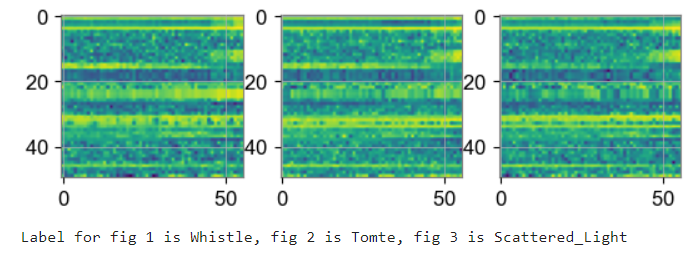
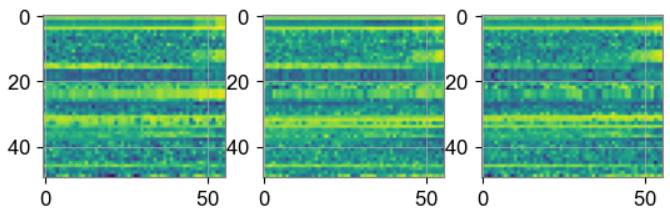
added DER and some results

diff --git a/Grad Assignment/Chapter2/chapter2.tex b/Grad Assignment/Chapter2/chapter2.tex
@@ -135,6 +135,7 @@ Task-IL scenarios performed equally well as opposed to the baseline method, doma
 \section{Background}
 \label{sec:Background}
 \subsection{CL Concepts and formulation}
+\label{subsec:cl_concepts}
 We follow the framework proposed by \citep{lesort2020continual}. 
 In the context of continual learning, the data can be considered as coming from a (potentially infinite) sequence $\mathbf{D}$ of distributions that are not known in advance. This sequence, denoted as $\mathbf{D} = \{ D_{1}, ..., D_{N} \}$, is defined over the random variables $X$ and $Y$, where $X$ represents the input and $Y$ represents the output. At each time step $i$, the algorithm receives a training set $Tr_{i}$ consisting of one or more observations drawn from the distribution $D_{i}$. A learning task is marked by a distinct task label $t\in \{ 1,\dots,T\}$ and its intended goal or objective function $h^{*}$.
 
@@ -154,13 +155,7 @@ where
 \[
     \mathbf{L}_{t} = \EX \left( L \left( y, f_{\theta} (x) \right) \right)
 \]
-
-A challenging fact, as the data from previous tasks $\mathbf{D}_{t}$ for $t\in \{ 1, \dots, t_{c} - 1 \}$ is not available. 
-In order to keep the previously learned knowledge, the following objective function is minimized:
-
-\[
-\mathbf{L}_{t_{c}} + \alpha \sum_{t=1}^{t_{c}-1}
-\]
+and $\EX$ is the expectation over data sampled from a distribution $\mathbf{D}_t$. \\
 
 \subsection{Catastrophic forgetting}
 \label{ref:subsub_catastrophic}
@@ -169,7 +164,13 @@ The dilemma (or trade-off) of Stability-Plasticity pertains to the capacity to i
 
 
 \subsection{CL training methods}
-In the subsequent section, we will outline a few of the frequently employed training techniques.
+In the subsequent section, we will outline a few of the frequently employed training techniques. Most of the training strategies follow the guidelines of General Continual Learning (GCL) as proposed by \citep{farquhar2018towards}. 
+\begin{itemize}
+    \item Do not rely on task boundaries.
+    \item No oracle with task identifiers during testing.
+    \item A bounded constant memory throughout training.
+\end{itemize}
+
 \subsubsection{Elastic Weight Consolidation}
 \label{sec:ewc}
 The study by \citep{kirkpatrick2017overcoming} and \citep{de2021continual} explains \acrshort{ewc} is a regularization method designed to address the issue of catastrophic forgetting in neural networks. It achieves this by constraining the learning process. The main concept behind \acrshort{ewc} involves incorporating a quadratic penalty term into the standard loss function. This penalty term takes into account the difference between the current weight values and the optimal weights that were obtained during the previous task learning phase. By doing so, \acrshort{ewc} minimises interference between tasks and ensures a balance between learning new tasks and retaining knowledge from previous tasks.
@@ -215,11 +216,11 @@ The \acrshort{fromp} training strategy is a novel approach in \acrshort{cl} addr
 \label{sec:gem}
 The \acrlong{cl} (\acrshort{cl}) strategy, proposed by \citep{lopez2017gradient}, is a model that overcomes the limitations imposed by Empirical Risk Minimization \citep{vapnik1991principles} on other supervised learning techniques. To bridge this gap, the \acrlong{gem} (\acrshort{gem}) model incorporates an episodic memory $M_t$ that selectively stores a subset of observed examples from a specific task $t$. The memory capacity is limited to a total of $M$ locations, with each task having $m=\frac{M}{T}$ memories. The examples stored in $M$ are utilized to determine predictor functions $f_{\theta}$ by minimising the corresponding loss function
 \[
-L(f_{\theta}, M_{k}) = \frac{1}{|M_{k}|} \sum_{(x_i, k, y_i) \in M_{k}} L(f_{\theta}(x_i , k), y_i)
+\mathbf{L}(f_{\theta}, M_{k}) = \frac{1}{|M_{k}|} \sum_{(x_i, k, y_i) \in M_{k}} \mathbf{L}(f_{\theta}(x_i , k), y_i)
 \]
 Overfitting to the stored examples in $M_{k}$ is a common issue when minimizing the loss at the current example along with the above loss function. To address this problem, they solve the following optimization problem:
 \[ 
-\underset{\theta}{\mathrm{argmin }} \; L(f_{\theta}(x,t),y) \text{ subject to } L(f_{\theta}, M_{k}) \leq L(f_{\theta}^{t-1}, m_k), \forall k<t 
+\underset{\theta}{\mathrm{argmin }} \; \mathbf{L}(f_{\theta}(x,t),y) \text{ subject to } \mathbf{L}(f_{\theta}, M_{k}) \leq \mathbf{L}(f_{\theta}^{t-1}, m_k), \forall k<t 
 \]
 Here, $f^{t-1}_{\theta}$ represents the previous predictor state at the end of learning task $t-1$. The detailed solution can be found in the original paper by \citep{lopez2017gradient}.
 
@@ -228,7 +229,7 @@ Here, $f^{t-1}_{\theta}$ represents the previous predictor state at the end of l
 \label{sec:a-gem}
 \citep{chaudhry2018efficient} proposes a more efficient version of \acrshort{gem} where it tries to ensure that at every training step the average episodic memory loss over the previous tasks does not increase. Formally the objective of \acrshort{agem} is
 \[ 
-\underset{\theta}{\mathrm{argmin }} \; L(f_{\theta} D_{t}) \text{ such that } L(f_{\theta}, M) \leq L(f_{\theta}^{t-1}, M), \text{ where } M = \underset{k<t}{\bigcup} M_{k} 
+\underset{\theta}{\mathrm{argmin }} \; \mathbf{L}(f_{\theta} D_{t}) \text{ such that } \mathbf{L}(f_{\theta}, M) \leq \mathbf{L}(f_{\theta}^{t-1}, M), \text{ where } M = \underset{k<t}{\bigcup} M_{k} 
 \]
 The detailed solution and update rule can be found in the original paper by \citep{chaudhry2018efficient}.
 
@@ -236,35 +237,66 @@ The detailed solution and update rule can be found in the original paper by \cit
 As described in \citep{rebuffi2017icarl} iCaRL (Incremental Classifier and Representation Learning) allows learning in a class incremental way as depicted in figure \ref{fig:icarl}. It learns strong classifiers and a data representation simultaneously. In iCaRL, the model learns to recognize new classes while retaining its ability to recognize old ones. This is achieved by storing examples of each class, which are selected based on their closeness to the mean feature of that class. 
 The model is then trained on both the new data and these examples. This approach ensures that the model does not forget the old classes when learning new ones. 
 
-\begin{figure}[H]
-    \centering
-    \textwidth\textwidth]\includegraphics[width=0.5\textwidth]{Images//class_incremental_learning.png}
+\begin{wrapfigure}{l}{0.40\textwidth}\includegraphics[width=0.45\textwidth]{Images//class_incremental_learning.png}
     \caption{Class-incremental learning. \citep{rebuffi2017icarl}}
     \label{fig:icarl}
-\end{figure}
+\end{wrapfigure}
 
-iCaRL utilizes a \acrshort{cnn} as its underlying mechanism. The \acrshort{cnn} functions as a feature extractor that can be trained, denoted as $\phi: X \rightarrow \mathbf{R}^{d}$, followed by a single classification layer containing sigmoid output nodes equal to the number of classes encountered up to that point. All feature vectors undergo $L^{2}$ normalization. The classification approach employed by iCaRL is based on a nearest-mean-of-exemplars strategy. In order to predict a label, $y^{*}$, for a new input, $x$, the system calculates a prototype vector for each class seen so far, represented as $\mu_{1}, ..., \mu_{t}$, where $\mu_{y}$ represents the average feature vector of all examples belonging to class $y$. It also computes the feature vector of the image that should be classified and assigns the class label with the most similar prototype: 
+
+iCaRL utilizes a \acrshort{cnn} as its underlying mechanism. The \acrshort{cnn} functions as a feature extractor that can be trained, denoted as $\phi: X \rightarrow \mathbf{R}^{d}$, followed by a single classification layer containing sigmoid output nodes equal to the number of classes encountered up to that point. All feature vectors undergo $L^{2}$ normalization. The classification approach employed by iCaRL is based on a nearest-mean-of-exemplars strategy.\\
+In order to predict a label, $y^{*}$, for a new input, $x$, the system calculates a prototype vector for each class seen so far, represented as $\mu_{1}, ..., \mu_{t}$, where $\mu_{y}$ represents the average feature vector of all examples belonging to class $y$. It also computes the feature vector of the image that should be classified and assigns the class label with the most similar prototype: 
 \[
 y^{*} = \underset{y=1,...,t}{\mathrm{argmin }} \| \phi(x) - \mu_{y} \|
 \]
 
 \subsubsection{SCR}
 \label{sec:SCR}
-\begin{wrapfigure}{r}{0.48\textwidth}
-    \includegraphics[width=0.46\textwidth]{Images/scr_architecture.png}
+\begin{wrapfigure}{r}{0.40\textwidth}
+    \includegraphics[width=0.40\textwidth]{Images/scr_architecture.png}
     \caption{A schematic view of SCR. \citep{mai2021supervised}}
     \label{fig:scr_architecture}
 \end{wrapfigure}
 
 \acrfull{scr} is a technique introduced by \citep{mai2021supervised} to address some challenges common in \acrshort{cl}. 
-Because the softmax classifier is not the best choice for CL approaches, it aims to leverage the \acrfull{ncm} classifier instead to effectively mitigate catastrophic forgetting (or also called task-recency bias). 
-The \acrshort{scr} process (see Figure \ref{fig:scr_architecture}) involves the creation of an input batch during training by combining a minibatch $B_{n}$ from the datastream with another minibatch $B_{M}$ from the memory buffer $M_{i}$. These input batches, along with their augmented views, are encoded by a shared encoder ($Enc(\cdot)$) and projection head ($Proj(\cdot)$). Followed by an evaluation using supervised contrastive loss. In the testing phase, $Proj(\cdot)$ is removed.
-
-
-Supervised Contrastive Loss is an alternative loss function to cross entropy that can leverage label information more effectively. \citep{khosla2020supervised}.
+Because the softmax classifier is not the best choice for CL approaches, it aims to leverage the \acrfull{ncm} classifier instead to effectively mitigate catastrophic forgetting (or also called task-recency bias).\\
+The \acrshort{scr} process (see Figure \ref{fig:scr_architecture}) involves the creation of an input batch during training by combining a minibatch $B_{n}$ from the datastream with another minibatch $B_{M}$ from the memory buffer $M_{i}$.\\ 
+These input batches, along with their augmented views, are encoded by a shared encoder  and projection head. Followed by an evaluation using supervised contrastive loss. In the testing phase, the projection head is removed. Supervised Contrastive Loss is an alternative loss function to cross entropy that can leverage label information more effectively. \citep{khosla2020supervised}.
 
 \subsubsection{DER and DER++}
-\acrfull{der} 
+\acrfull{der} is proposed by \citep{buzzega2020dark} as an improvement on Experience Replay (ER) while maintaining a simple formulation. It relies on dark knowledge for distilling past experiences, sampled over the training trajectory. \\
+Formally, given a \acrshort{cl} classification split in $T$ tasks
+
+It is problematic that the data from earlier tasks $\mathbf{D}_{t}$ for $t \in \{ 1, \dots, t_{c} - 1 \}$ is unavailable. To preserve the knowledge acquired previously, the subsequent objective function, which mirrors the teacher-student method, is minimized:
+
+\[
+\mathbf{L}_{t_{c}} + \alpha \sum_{t=1}^{t_{c}-1} \EX \left[ D_{KL} \left( f_{\theta_{t}^{*}}(x) \parallel f_{\theta}(x) \right) \right]
+\]
+where $\theta_{t}^{*}$ is the optimal set of parameters at the end of task $t$, $\alpha$ is a hyperparameter balancing the trade-off between the terms. 
+$D_{KL}$ stands for the Kullback-Leibler divergence, a measure of how one probability distribution diverges from a second, expected probability distribution. It is commonly used to quantify how much knowledge from previous tasks is retained or lost when learning new tasks \citep{goodfellow2016deep}.\\
+The above objective function requires having access to $\mathbf{D}_{t}$ for earlier tasks. To address this issue, a replay buffer $M_{t}$ is utilized to store previous experiences related to task $t$. Instead of preserving the actual labels $y$, the network logits (pre-activation outputs) $z \doteq h_{\theta_{t}}(x)$ are maintained. 
+\[
+\mathbf{L}_{t_{c}} + \alpha \sum_{t=1}^{t_{c}-1} \EX \left[ D_{KL} \left( \sigma(z) \parallel f_{\theta}(x) \right) \right]
+\]
+where $\sigma$ is the softmax function and $(x,z)$ are drawn from the replay buffer $M_{t}$. \\
+\acrshort{der} uses reservoir sampling as defined by \citep{vitter1985random} to select $|M|$ random samples from the input stream, this way guaranteeing the same probability of being stored in the buffer without knowing the length in advance. This way the previous equation (with $\EX$ drawn from $M$) becomes:
+\[
+\mathbf{L}_{t_{c}} + \alpha \EX \left[ D_{KL} \left( \sigma(z) \parallel f_{\theta}(x) \right) \right]
+\]
+
+Given some basic assumptions, as mentioned in \citep{hinton2015distilling}, maximizing the KL divergence corresponds to minimizing the Euclidean distance among the logits. Consequently, the target function for \acrshort{der} is defined as
+\[
+\mathbf{L}_{t_{c}} + \alpha \EX \left[ \| z - h_{\theta}(x) \|^{2}_{2} \right]
+\]
+
+with $\EX$ being approximated by gradient computation on batches sampled from the replay buffer \citep{buzzega2020dark, boschini2022class}. \\
+\acrshort{der++} adjusts the objective function by adding an additional balancing term $\beta$ on alternative 'buffer' data points
+
+\[
+\mathbf{L}_{t_{c}} + \alpha \EX \left[ \| z_{1} - h_{\theta}(x_{1}) \|^{2}_{2} \right] + \beta \EX \left[ \mathbf{L} \left( y_{2}, f_{\theta}(x_{2}) \right) \right]
+\]
+
+\acrshort{der++} collapses to \acrshort{der} when the coefficient $\beta=0$. \\
+Experiment results, as described in \citep{buzzega2020dark} conclude that \acrshort{der} converges to more flat minima and to more calibrated networks. 
 
 \subsection{CL metrics}
 \label{sec:il_metrics}

diff --git a/Grad Assignment/Chapter4/chapter4.tex b/Grad Assignment/Chapter4/chapter4.tex
@@ -108,6 +108,14 @@ The full PyTorch implementation can be found in Appendix \ref{appendix3}, in sho
 
 The train dataset contains a balanced (896 entries for each of the three glitch categories) selection of 2688 records where each record contains fractal dimension calculations on 50 auxiliary channels from 3 glitch classes ('Whistle', 'Tomte', 'Scattered\_Light'). Each channel has 56 fractal dimension calculations. The dataset selection is based on the study by \citep{laguarta2023detection}.
 
+An example visualisation is show in Figure \ref{fig:FD_visualisation}
+\begin{figure}[ht]
+    \centering
+    \includegraphics[width=0.5\textwidth]{Grad Assignment/Images/FD_visualisation_50channels.png}
+    \caption{Example visualisations of FD matrices with 50 channels. Left = 'Whistle', Middle = 'Tomte' and right = 'Scattered\_Light'}
+    \label{fig:FD_visualisation}
+\end{figure}
+
 The optimizer for the majority of experiments is the \verb|AdamW| optimizer. The learning rate is set to 0.001 and weight decay to 0.00001. Finally, the criterion used for the experiments is CrossEntropyLoss just as in \ref{subsubsec:RQ1_naive_baseline}. 
 \newpage
 \section{Results}
